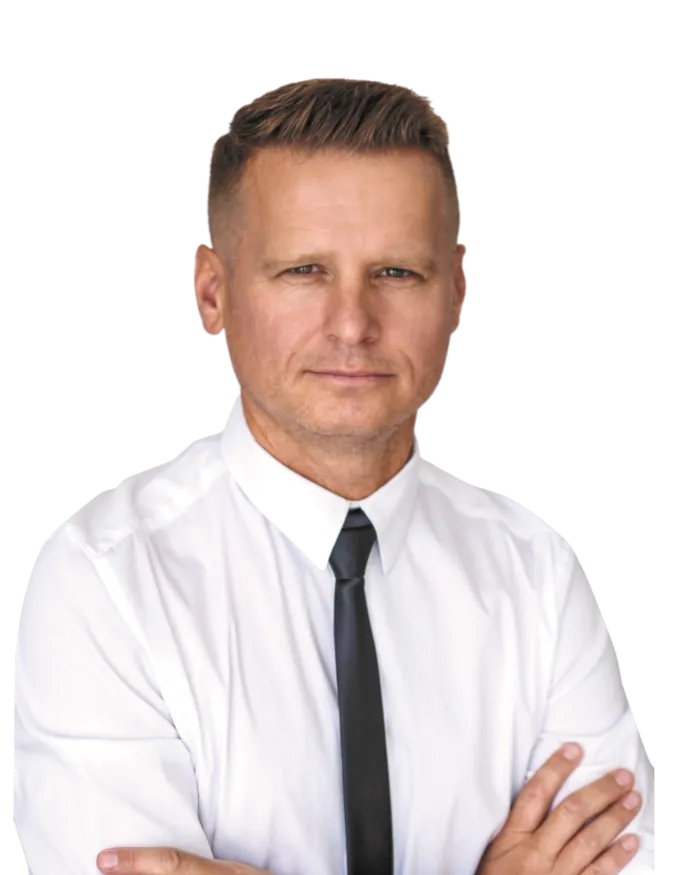
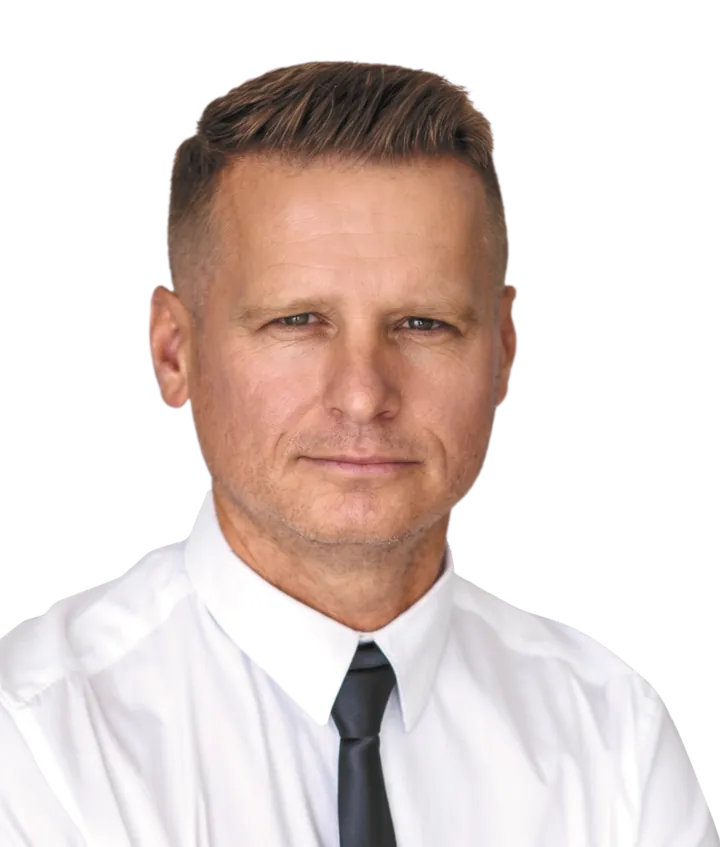
Aktualizácia textov a úpravy hlavičky
Aktualizované texty životopisov, priorít a tipov. Modrá prelepka v hornom páse, väčšie fotky v príhovoroch, väčšie čísla a mená v páse s kandidátmi.

diff --git a/index.html b/index.html
@@ -71,7 +71,7 @@ body{
   background-image:url("assets/hrad-2400.webp");
 
   background-size:125% auto;
-  background-position:0% 27.6%;
+  background-position:0.8% -16.51cqw;
   background-repeat:no-repeat;
 }
 .hero__inner{
@@ -84,7 +84,7 @@ body{
 
   width:max(var(--measure), min(100%, 360px));
 
-  margin:0 auto -.596em;
+  margin:0 auto -.356em;
   position:relative; z-index:3;
   transform:translateY(-50%);
   background:var(--ink);
@@ -92,7 +92,7 @@ body{
   font-family:var(--display);
   font-weight:900;
 
-  font-size:max(2.49cqw, min(3.97cqw, 14.3px));
+  font-size:max(2.47cqw, min(3.94cqw, 14.17px));
   line-height:1;
   letter-spacing:0;
   text-transform:uppercase;
@@ -104,6 +104,16 @@ body{
 .topbar span{ display:flex; align-items:center; gap:.12em }
 .topbar span::after{ content:""; width:1em; height:max(1px,.045em); background:currentColor }
 .topbar span:last-child::after{ display:none }
+.topbar__prelepka{
+  position:relative; z-index:1;
+  background:var(--blue); color:var(--white);
+  font-size:1.28em; line-height:1;
+  padding:.152em .26em; margin-block:-.261em;
+  transform:rotate(-2deg);
+  box-shadow:0 .06em .16em rgba(0,0,0,.3);
+}
+.topbar__prelepka::after,
+.topbar span:has(+ .topbar__prelepka)::after{ display:none }
 
 .hero__gap{ flex:1 1 auto; height:6cqw }
 
@@ -143,44 +153,54 @@ body{
   }
 }
 
-.team{ position:relative; z-index:2;
+.team{ position:relative; z-index:2; container-type:inline-size;
        width:min(1104px, calc(100% - 2*var(--vlozenie))); margin-inline:auto }
 
 .team__list{
 
   list-style:none; width:100%; margin:-6.25% 0 0;
-  padding:var(--s4) 6.8%;
+  padding:var(--s4) 5%;
   background:var(--white); border-radius:clamp(10px,1.3vw,18px);
   display:flex; justify-content:space-between; align-items:flex-start; gap:var(--s3);
   position:relative;
 }
 .team__item{ text-align:left; display:flex; flex-direction:column; align-items:flex-start; gap:var(--s2) }
 
+.team__item{ position:relative; left:calc(var(--posun, 0) * 1cqw) }
+.team__item:nth-child(1){ --posun:0.437 }
+.team__item:nth-child(2){ --posun:-1.569 }
+.team__item:nth-child(3){ --posun:-1.992 }
+.team__item:nth-child(4){ --posun:-0.996 }
+.team__item:nth-child(5){ --posun:-2.865 }
+.team__item:nth-child(6){ --posun:-5.166 }
+.team__item:nth-child(7){ --posun:-5.253 }
+.team__item:nth-child(8){ --posun:-2.337 }
+.team__item:nth-child(9){ --posun:-0.275 }
 .team__num{
-  font-family:var(--display); font-weight:900; font-size:clamp(14px,1.8vw,25px);
+  font-family:var(--display); font-weight:900; font-size:2.88cqw;
   line-height:1; color:var(--white); background:var(--orange);
-  border-radius:6px; width:1.52em; aspect-ratio:1;
+  border-radius:6px; width:1.18em; aspect-ratio:1;
   display:grid; place-items:center; padding:0 0 .06em;
 }
 .team__name{ line-height:1.05 }
 .team__fn{
   display:block; font-family:var(--display); font-weight:700;
-  font-size:clamp(12px,1.26vw,18px); color:var(--ink); letter-spacing:.01em;
+  font-size:2.5cqw; color:var(--ink); letter-spacing:.01em;
 }
 .team__sn{
   display:block; font-family:var(--display); font-weight:900;
-  font-size:clamp(12px,1.26vw,18px); color:var(--orange);
+  font-size:2.5cqw; color:var(--orange);
   text-transform:uppercase; letter-spacing:-.01em;
 }
 
 @media (max-width:1150px){
-  .team{ container-type:inline-size }
   .team__fn, .team__sn{ white-space:nowrap }
 }
 
 @media (max-width:660px){
   .team__fn, .team__sn{ font-size:clamp(7px, 2.75vw, 12px) }
-  .team__num{ font-size:clamp(9px, 2.6vw, 14px) }
+  .team__num{ font-size:clamp(9px, 2.6vw, 14px); width:1.52em }
+  .team__item{ left:0 }
   .team__list{ padding:var(--s3) 5.1%; gap:var(--s1) }
   .team__item{ gap:var(--s1) }
 }
@@ -189,17 +209,16 @@ body{
 
 .say{
   position:relative; background:var(--white); border-radius:var(--s6);
-  padding:var(--s5) var(--s5) var(--s5) 46%;
+  padding:var(--s5) var(--s5) var(--s5) 48%;
   min-height:19cqw;
   display:flex; align-items:center;
-  scroll-margin-top:var(--s5);
+  scroll-margin-top:var(--s5); overflow:hidden;
 }
-.say--right{ padding:var(--s5) 46% var(--s5) var(--s5) }
+.say--right{ padding:var(--s5) 48% var(--s5) var(--s5) }
 
-.say__photo{ position:absolute; bottom:0; left:2.5%; height:86%; width:auto;
-             max-width:42%; overflow:hidden; border-radius:var(--s5) }
-.say--right .say__photo{ left:auto; right:2.5% }
-.say__photo img{ display:block; height:100%; width:auto }
+.say__photo{ position:absolute; top:0; bottom:0; left:0; width:44%; overflow:hidden }
+.say--right .say__photo{ left:auto; right:0 }
+.say__photo img{ display:block; width:100%; height:100%; object-fit:cover; object-position:50% 0% }
 
 .say__body{ position:relative; width:100% }
 
@@ -250,9 +269,8 @@ body{
 
   .say__quote{ grid-area:citat; text-align:left }
 
-  .say__photo{ grid-area:fotka; position:static; width:100%; height:auto; max-width:none;
-               margin:0 0 0 calc(-1 * var(--s3));
-               border-radius:0; overflow:visible }
+  .say__photo{ grid-area:fotka; position:static; width:calc(100% + var(--s5)); height:auto;
+               margin:0 0 0 calc(-1 * var(--s5)); overflow:visible }
   .say__photo img{ width:100%; height:auto }
   .say--right .say__photo{ left:auto; right:auto }
 
@@ -288,10 +306,6 @@ body{
 }
 .foot__link:focus-visible{ outline:3px solid var(--ink); outline-offset:2px; border-radius:4px }
 @media (hover:hover){ .foot__link:hover{ text-decoration-thickness:2px } }
-
-@media (min-width:701px) and (max-width:1150px){
-  .hero__bg{ background-position:0% 33.8% }
-}
 
 @media (max-width:700px){
   .frame{ padding:12px }
@@ -497,7 +511,7 @@ body{
     <nav class="topbar">
         <span>Voľby do VÚC</span>
         <span>24. október 2026</span>
-        <span>Nezávislí kandidáti</span>
+        <span class="topbar__prelepka">Nezávislí kandidáti</span>
       <span>Okres Trenčín</span>
     </nav>
 
@@ -562,7 +576,7 @@ body{
       <div class="rail__cell">
         <article class="say" id="huserka" data-reveal>
           <div class="say__photo">
-            <img src="assets/huserka.webp" width="700" height="875" loading="lazy" alt="Juraj Húserka">
+            <img src="assets/huserka.webp" width="720" height="847" loading="lazy" alt="Juraj Húserka">
           </div>
           <div class="say__body">
             <span class="say__mark say__mark--a" aria-hidden="true">&rdquo;</span>
@@ -575,7 +589,7 @@ body{
       <div class="rail__cell">
         <article class="say say--right" id="benovicova" data-reveal>
           <div class="say__photo">
-            <img src="assets/benovicova.webp" width="700" height="875" loading="lazy" alt="Martina Beňovičová">
+            <img src="assets/benovicova.webp" width="720" height="847" loading="lazy" alt="Martina Beňovičová">
           </div>
           <div class="say__body">
             <span class="say__mark say__mark--a" aria-hidden="true">&rdquo;</span>
@@ -588,7 +602,7 @@ body{
       <div class="rail__cell">
         <article class="say" id="misakova" data-reveal>
           <div class="say__photo">
-            <img src="assets/misakova.webp" width="700" height="875" loading="lazy" alt="Zuzana Mišáková">
+            <img src="assets/misakova.webp" width="720" height="847" loading="lazy" alt="Zuzana Mišáková">
           </div>
           <div class="say__body">
             <span class="say__mark say__mark--a" aria-hidden="true">&rdquo;</span>
@@ -601,7 +615,7 @@ body{
       <div class="rail__cell">
         <article class="say say--right" id="vano" data-reveal>
           <div class="say__photo">
-            <img src="assets/vano.webp" width="700" height="875" loading="lazy" alt="Tomáš Vaňo">
+            <img src="assets/vano.webp" width="720" height="847" loading="lazy" alt="Tomáš Vaňo">
           </div>
           <div class="say__body">
             <span class="say__mark say__mark--a" aria-hidden="true">&rdquo;</span>
@@ -634,7 +648,7 @@ body{
           <span class="prio__t">Bezpečné a hladké cesty do práce aj domov</span>
         </button>
         <div class="prio__panel" id="prio-1">
-          <div class="prio__panel-in"><p class="prio__p">Dieram na cestách a zničeným nápravám na autách musí byť koniec. Naše krajské cesty II. a III. triedy spájajú vaše domovy s prácou a školami. Presadzujeme systematickú opravu cestnej siete, modernizáciu mostov a rýchlu zimnú údržbu.</p></div>
+          <div class="prio__panel-in"><p class="prio__p">Dieram na cestách a zničeným nápravám na autách musí byť koniec. Naše krajské cesty II. a III. triedy spájajú vaše domovy s prácou a školami. Presadzujeme systematické opravy cestnej siete, modernizáciu mostov a rýchlu zimnú údržbu.</p></div>
         </div>
       </li>
       <li class="prio__card" data-reveal>
@@ -643,7 +657,7 @@ body{
           <span class="prio__t">Spoj, na ktorý sa dá vždy spoľahnúť</span>
         </button>
         <div class="prio__panel" id="prio-2">
-          <div class="prio__panel-in"><p class="prio__p">Nemôže sa stať, že sa nedostanete do práce alebo dieťa z krúžku domov len preto, že neide žiadny autobus. Budeme presadzovať moderné, klimatizované autobusy, nízke ceny lístkov pre študentov a seniorov a nadväznosť spojov tak, aby ste nemuseli čakať desiatky minút na prestupoch.</p></div>
+          <div class="prio__panel-in"><p class="prio__p">Nemôže sa stať, že sa nedostanete do práce alebo dieťa z krúžku domov len preto, že nejde žiadny autobus. Budeme presadzovať moderné, klimatizované autobusy, nízke ceny lístkov pre študentov a seniorov a nadväznosť spojov tak, aby ste nemuseli čakať desiatky minút na prestupoch.</p></div>
         </div>
       </li>
       <li class="prio__card" data-reveal>
@@ -652,7 +666,7 @@ body{
           <span class="prio__t">Dostupná zdravotná starostlivosť</span>
         </button>
         <div class="prio__panel" id="prio-3">
-          <div class="prio__panel-in"><p class="prio__p">Strach o zdravie blízkych je to najhoršie, čo človek zažíva. Budeme tlačiť na to, aby vo vašich mestách a obciach nebol problém nájsť obvodného lekára, tak, ako sa to podarilo Jurajovi Húserkovi v Hornom Srní.</p></div>
+          <div class="prio__panel-in"><p class="prio__p">Strach o zdravie blízkych je to najhoršie, čo človek zažíva. Budeme tlačiť na to, aby vo vašich mestách a obciach nebol problém nájsť lekára, tak, ako sa to podarilo starostovi Jurajovi Húserkovi v Hornom Srní.</p></div>
         </div>
       </li>
       <li class="prio__card" data-reveal>
@@ -670,7 +684,7 @@ body{
           <span class="prio__t">Dôstojná a ľudská starostlivosť o našich seniorov</span>
         </button>
         <div class="prio__panel" id="prio-5">
-          <div class="prio__panel-in"><p class="prio__p">Naši rodičia a starí rodičia budovali tento región a zaslúžia si úctu a špičkovú starostlivosť. Budeme presadzovať dostatok miest v domovoch sociálnych služieb, skracovanie čakacích lehôt a priamu finančnú podporu pre rodiny, ktoré sa o svojich príbuzných starajú doma.</p></div>
+          <div class="prio__panel-in"><p class="prio__p">Naši rodičia a starí rodičia budovali tento región a zaslúžia si úctu a špičkovú starostlivosť. Budeme presadzovať dostatok miest v domovoch sociálnych služieb a skracovanie čakacích lehôt.</p></div>
         </div>
       </li>
       <li class="prio__card" data-reveal>
@@ -777,7 +791,7 @@ body{
           <p class="bio__name"><span class="bio__fn">Zuzana</span><span class="bio__sn">Mišáková</span></p>
         </div>
         <div class="bio__body">
-          <div class="bio__text"><p>Pracujem ako riaditeľka Mestského divadla Trenčín, venujem sa aj vzdelávaniu, zlepšovaniu života komunít a charite. Chcem rozvíjať školskú, kultúrnu a športovú infraštruktúru, dostupnosť ihrísk a relaxačných zón, starostlivosť o deti, ako aj ľudský potenciál. Dôležité je pre mňa zdravé životné prostredie, čo nie je len zeleň, ale aj eliminácia sociálno-patologických javov. Politika potrebuje kultúrny prístup, nie nenávisť. Mojím krédom je spájať.</p></div>
+          <div class="bio__text"><p>Pracujem ako riaditeľka Mestského divadla Trenčín, venujem sa aj vzdelávaniu, zlepšovaniu života komunít a charite. Chcem rozvíjať školskú, kultúrnu a športovú infraštruktúru, dostupnosť ihrísk a relaxačných zón, starostlivosť o deti, ako aj ľudský potenciál kraja vo všetkých pracovných sférach a generáciách. Politika potrebuje kultúrny prístup, nie nenávisť. Mojím krédom je spájať: ľudí, komunity, ale aj miesta. Najväčšou inšpiráciou v mojom živote aj v práci je Trenčín a jeho okolie a ľudia.</p></div>
           <button class="bio__more" type="button">Viac</button>
         </div>
       </li>
@@ -790,7 +804,7 @@ body{
           <p class="bio__name"><span class="bio__fn">Martin</span><span class="bio__sn">Smolka</span></p>
         </div>
         <div class="bio__body">
-          <div class="bio__text"><p>Viac ako 30 rokov pracujem v oblasti bezpečnosti a športu a týmto témam sa chcem venovať aj naďalej. Som predsedom komisie športu pri mestskom zastupiteľstve v Trenčíne a mám ambíciu ešte viac podporovať šport v kraji a modernizovať športovú infraštruktúru tak, ako sa nám darilo aj po minulé roky.</p></div>
+          <div class="bio__text"><p>Viac ako 30 rokov pracujem v oblasti bezpečnosti a športu a týmto témam sa chcem venovať aj naďalej. Od roku 2014 som poslancom mestského zastupiteľstva v Trenčíne, kde som zároveň predsedom komisie športu. Mám ambíciu ešte viac podporovať šport v kraji a modernizovať športovú infraštruktúru tak, ako sa nám darilo aj po minulé roky.</p></div>
           <button class="bio__more" type="button">Viac</button>
         </div>
       </li>
@@ -868,7 +882,7 @@ body{
       <div class="rail__cell">
         <div class="naj__item" data-reveal>
           <h3 class="naj__kto"><span class="naj__fn">Zuzana</span> <span class="naj__sn">MIŠÁKOVÁ</span></h3>
-          <p class="naj__p">Príďte sa zabaviť do KKC Hviezda v Trenčíne na čiernu komédiu Zázrak. Dej vás prenesie do Francúzska roku 1250 do chudobného kláštora. Čaká vás kolotoč bláznivých situácií, skvelého humoru a večer plný divadelnej energie.</p>
+          <p class="naj__p">Príďte do KKC Hviezda v Trenčíne na rodinný muzikál Perinbaba alebo hitmuzikál Popoluška. Zažite tam Noc divadiel s bláznivou čiernou komédiou Zázrak a deti vtedy vezmite na Čin-čin podľa Ľudmily Podjavorinskej a tvorivé dielničky. Duchovnú posilu nájdete na Krížovej ceste na Malej Skalke, odporúčam prejsť celú cestu až ku kláštoru na Veľkú Skalku.</p>
         </div>
       </div>
       <div class="rail__cell">
